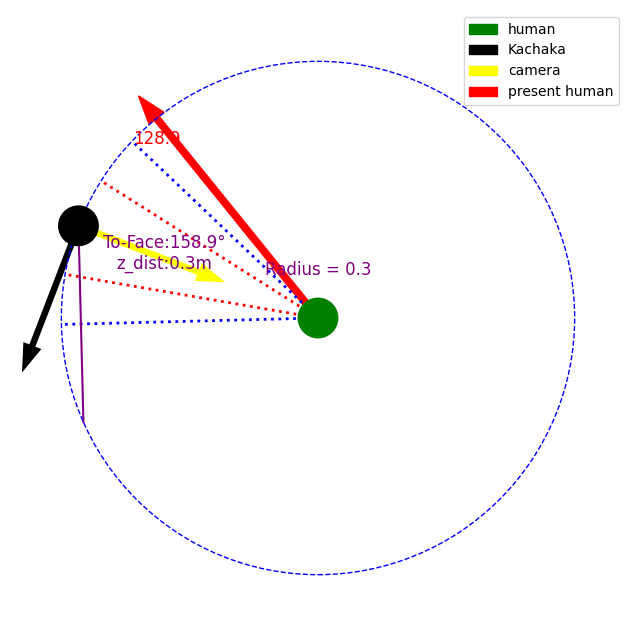
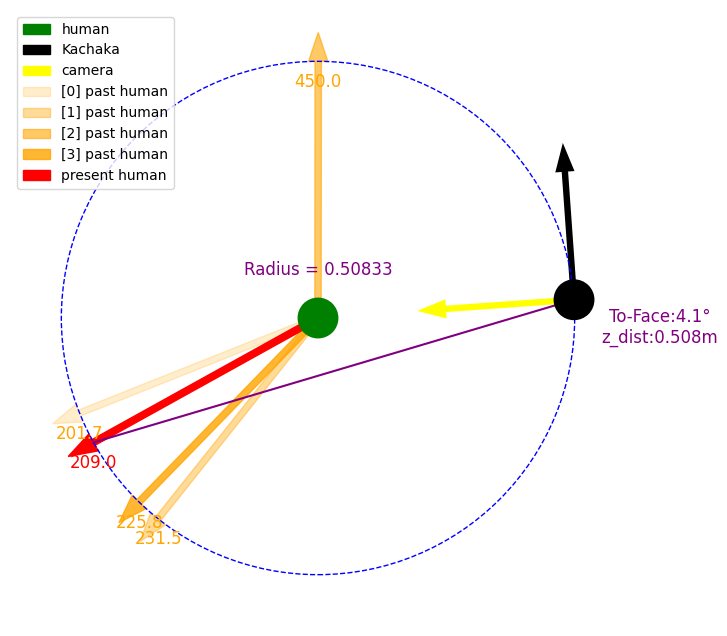
almost

diff --git a/stalk/funcs.py b/stalk/funcs.py
@@ -31,6 +31,8 @@ from functools import wraps
 
 import logging
 
+PI = math.pi
+
 FONT = cv2.FONT_HERSHEY_PLAIN
 WHITE = (255,255,255)
 RED = (0,0,255)
@@ -53,7 +55,7 @@ MAX_LINEAR_SPEED = 1
 MAX_ANGULAR_SPEED = 1
 MOVE_ANGLE_THRE = 0.03
 MOVE_EUCLIDEAN_DIST_THRE = 0.03
-STRAIGHT_FOV_THRE = math.pi/16 # rads
+STRAIGHT_FOV_THRE = PI/16 # rads
 MAX_D_STEP = 3 # meter
 
 # SCREEN_NAME = "Fullscreen"
@@ -437,7 +439,7 @@ class KachakaFrame():
                     if running_move_to_pose:
                         await self.cancel_move_to_pose()
                     self.move_try_count = 0
-                elif euclidean_dist < 0.1:
+                elif euclidean_dist < 0.15:
                     self.dest_pose = None
                     self.running_move_to_pose = False
                     if running_move_to_pose:
@@ -721,9 +723,9 @@ class KachakaFrame():
                     camera_deg = 90 # camera fixed atm
                     # get angle to turn by; angle is 0 from vertical line's bottom half and is positive clockwise
                     target_rad = np.deg2rad(target_deg) + pose_theta # angle to target's orientation
-                    kachaka_look_rad = mod_radians(pose_theta - math.pi/2)
+                    kachaka_look_rad = mod_radians(pose_theta - PI/2)
                     camera_look_rad = mod_radians(kachaka_look_rad - np.deg2rad(camera_deg)) # angle which camera is looking
-                    camera_target_diff = camera_look_rad - mod_radians(target_rad) + math.pi # angle difference between camera and target
+                    camera_target_diff = camera_look_rad - mod_radians(target_rad) + PI # angle difference between camera and target
                     # check if person is facing towards the camera
                     if m.facing_camera():
                         if abs(camera_target_diff) < STRAIGHT_FOV_THRE: # looking straight forward to person
@@ -735,14 +737,14 @@ class KachakaFrame():
                             print("facing forward", np.rad2deg(camera_target_diff))
                         else:
                             d_step = z_dist / (2 * math.cos(camera_target_diff))
-                            new_rad = mod_radians(kachaka_look_rad + (math.pi - camera_target_diff)/2)
+                            new_rad = mod_radians(kachaka_look_rad + (PI - camera_target_diff)/2)
                             dx, dy = get_coords_from_angle(new_rad, d_step)
                             new_pose = (pose_x+dx, pose_y+dy, new_rad)
                     else:
                         # TODO: step movement in a preset direction
                         # if person is facing away, simply traverse along circumference in random dir
                         d_step = z_dist / (2 * math.cos(camera_target_diff))
-                        new_rad = mod_radians(kachaka_look_rad + (math.pi - camera_target_diff)/2)
+                        new_rad = mod_radians(kachaka_look_rad + (PI - camera_target_diff)/2)
                         dx, dy = get_coords_from_angle(new_rad, d_step)
                         new_pose = (pose_x+dx, pose_y+dy, new_rad)
 
@@ -755,163 +757,90 @@ class KachakaFrame():
                     print(p)
                     await self._visualize_adjusting_to_front(z_dist, target_rad, camera_look_rad, d_step, new_pose, pose_theta, kachaka_look_rad)
 
-    async def test_circle(self):
-        if self.dest_pose is None:
-            target_rad = np.deg2rad(-30)
-            z_dist = 0.3 #meter
-            (pose_x, pose_y), pose_theta = await self.get_robot_pose() # pose_theta is in range [-pi, pi]
-            camera_rad = math.pi/2
-            kachaka_look_rad = pose_theta + math.pi/2
-            camera_look_rad = kachaka_look_rad + camera_rad
-            target_rad += pose_theta
-            # make pose coords to relative coords
-            # get human world coordinate by using BOTH camera and human orientation
-            human_x, human_y = pose_x+z_dist*math.cos(camera_look_rad), pose_y+z_dist*math.sin(camera_look_rad)
-            rel_pose_x, rel_pose_y = pose_x - human_x, pose_y - human_y
-            rel_theta = math.atan2(rel_pose_y, rel_pose_x)
-            # get theta_diff
-            d_theta = math.pi/2 + (target_rad - camera_look_rad)
-            # get new coords
-            step_theta = np.sign(d_theta)*min(math.pi/4, abs(d_theta))
-            new_theta = rel_theta + step_theta + math.pi/2
-            rel_new_x, rel_new_y = get_coords_from_angle(new_theta, z_dist)
-            # print((rel_pose_x, rel_pose_y), (rel_new_x, rel_new_y))
-            new_x, new_y = human_x - rel_new_x, human_y - rel_new_y
-            # print((pose_x, pose_y), (new_x, new_y))
-            # self.dest_pose = (pose_x, pose_y, new_theta)
-            self.dest_pose = (new_x, new_y, kachaka_look_rad + step_theta)
-
-            # visualize
-            fig,ax = plt.subplots(figsize=(12,8))
-            center = (0,0)
-            kachaka = (rel_pose_x, rel_pose_y)
-            arrow_sca = 40
-            ax.add_artist(plt.Circle(center, z_dist/13, color="green", zorder=5, label="human")) # circle center
-            ax.add_artist(plt.Circle(center, z_dist, color="blue", fill=False, linestyle="dashed", zorder=5)) # circumference
-            ax.add_artist(plt.Circle(kachaka, z_dist/13, color="black", zorder=5)) #kachaka obj
-            # kachaka pov
-            ax.arrow(*kachaka, *get_coords_from_angle(kachaka_look_rad, z_dist/2), width=z_dist/arrow_sca, shape="full", color="black", linestyle="", label="Kachaka")
-            # camera pov
-            ax.arrow(*kachaka, *get_coords_from_angle(camera_look_rad, z_dist/2), width=z_dist/arrow_sca, shape="full", color="yellow", linestyle="", label="camera")
-            # past target lines
-            self.visualize_prev_locations.append(target_rad)
-            if len(self.visualize_prev_locations) > 5:
-                self.visualize_prev_locations.pop(0)
-            for i,n in enumerate(self.visualize_prev_locations):
-                x,y,dx,dy = (*center, *get_coords_from_angle(n, z_dist))
-                if i == len(self.visualize_prev_locations)-1:
-                    # most recent line to be draw with different colour and full alpha
-                    ax.arrow(x, y, dx, dy, color="red", linestyle="solid", lw=1, width=z_dist/arrow_sca, shape="full", label="present human")
-                    ax.text(x+dx, y+dy-z_dist/10, f"{round(np.rad2deg(n),1)}", fontsize=12, ha='center', color='red', zorder=5)
-                else:
-                    ax.arrow(x, y, dx, dy, color="orange", linestyle="solid", lw=1, alpha=(255/5 * (i+1))/255, width=z_dist/arrow_sca, label=f"[{i}] past human")
-                    ax.text(x+dx, y+dy-z_dist/10, f"{round(np.rad2deg(n),1)}", fontsize=12, ha='center', color='orange', zorder=5)
-            # draw boundary for swapping turn angle calculations
-            x,y = center
-            for c,j in [["red",1],["blue",2]]:
-                for i in (-1,1):
-                    dx,dy = get_coords_from_angle(i*j*(STRAIGHT_FOV_THRE)+pose_theta, z_dist)
-                    ax.plot((x,x+dx), (y,y+dy), color=c, linestyle="dotted", lw=2)
-            # kachaka destination annotations
-            ax.plot((kachaka[0], rel_new_x), (kachaka[1], rel_new_y), color="purple")
-            # ax.arrow(*kachaka, *get_coords_from_angle(step_theta, z_dist), color="purple", linestyle="solid", lw=1, width=z_dist/arrow_sca, shape="full", label="destination", alpha=.5)
-            ax.text(kachaka[0]+z_dist/3, kachaka[1]-z_dist/6, f"To-Face:{round(np.rad2deg(pose_theta),1)}°\nz_dist:{round(z_dist,3)}m", fontsize=12, ha='center', color='purple')
-            # draw some info text on center
-            ax.text(0, z_dist/6, f'Radius = {round(z_dist,5)}', fontsize=12, ha='center', color='purple')
-            c = 1.2
-            ax.set_xlim(-z_dist*c, z_dist*c)
-            ax.set_ylim(-z_dist*c, z_dist*c)
-            ax.set_aspect("equal")
-            ax.axis("off")
-            ax.legend()
-            fig.savefig("stalk/visualize.png", bbox_inches="tight")
-            # save frame by frame
-            fig.savefig(f"stalk/img/graph_{str(self.graph_i).zfill(3)}.png")
-            plt.close(fig)
-            self.graph_i += 1
-
     async def circle(self):
         m = self.mp_landmark_model
         img_h, img_w, _ = self.color_image.shape
         if self.target_found and m.landmarks is not None and self.dest_pose is None:
-            target_rad = np.deg2rad(self._find_deg_from_landmarks())
+            target_rad = 2*PI-np.deg2rad(self._find_deg_from_landmarks())
+            # target_rad = -PI
             l = [MPLandmark.NOSE, MPLandmark.LEFT_SHOULDER, MPLandmark.RIGHT_SHOULDER]
             l = [m._convert_to_ndarray(i) for i in l]
             l = [self.realsense.get_depth_at_pixel(int(img_w*x), int(img_h*y), self.depth_image, self.color_image) for x,y,_ in l]
             l = filter_outliers_IQR(np.array([n for n in l if n is not None],dtype=float))
             if len(l) == 3: # continue only if valid depths can be retrieved
                 z_dist = np.average(l) # distance in meter
-                logging.debug(f"[{self.id}]KachakaFrame.circle(). z_dist:{z_dist}, l:{len(l)}/33")
-                (pose_x, pose_y), pose_theta = await self.get_robot_pose() # pose_theta is in range [-pi, pi]
-                camera_rad = math.pi/2
-                kachaka_look_rad = pose_theta + math.pi/2
-                camera_look_rad = kachaka_look_rad + camera_rad
-                target_rad += pose_theta - math.pi/2
-                # make pose coords to relative coords
-                # get human world coordinate by using BOTH camera and human orientation
-                human_x, human_y = pose_x+z_dist*math.cos(camera_look_rad), pose_y+z_dist*math.sin(camera_look_rad)
-                rel_pose_x, rel_pose_y = pose_x - human_x, pose_y - human_y
-                rel_theta = math.atan2(rel_pose_y, rel_pose_x)
-                # get theta_diff
-                d_theta = math.pi + (target_rad - camera_look_rad)
-                # get new coords
-                step_theta = np.sign(d_theta)*min(math.pi/4, abs(d_theta))
-                new_theta = rel_theta + step_theta
-                rel_new_x, rel_new_y = get_coords_from_angle(new_theta, z_dist)
-                # print((rel_pose_x, rel_pose_y), (rel_new_x, rel_new_y))
-                new_x, new_y = rel_new_x + human_x, rel_new_y + human_y
-                # print((pose_x, pose_y), (new_x, new_y))
-                # self.dest_pose = (pose_x, pose_y, new_theta)
-                self.dest_pose = (new_x, new_y, pose_theta + step_theta)
+                if z_dist < 2: # anything larger is too far
+                    logging.debug(f"[{self.id}]KachakaFrame.circle(). z_dist:{z_dist}")
+                    (pose_x, pose_y), pose_theta = await self.get_robot_pose() # pose_theta is in range [-pi, pi]
+                    pose = np.array([pose_x, pose_y])
+                    camera_rad = PI/2 # kachaka to camera yaw offset
+                    kachaka_look_rad = pose_theta + PI/2 # angle kachaka is looking
+                    camera_look_rad = kachaka_look_rad + camera_rad # direction of camera
+                    target_rad = target_rad + pose_theta # target angle
+                    # get human world coordinate by using BOTH camera and human orientation
+                    human = pose + get_coords_from_angle(camera_look_rad, z_dist)
+                    # get relative coords
+                    rel_pose = pose - human
+                    # get theta_diff
+                    d_theta = (target_rad - camera_look_rad + np.pi) % (2 * np.pi) - np.pi
+                    print("pose",pose_theta, "target",target_rad, "camera",camera_look_rad, "d_theta",d_theta)
+                    # get new coords
+                    step_theta = np.sign(d_theta)*min(PI/4, abs(d_theta))
+                    new_theta = camera_look_rad + step_theta
+                    print("new_theta",new_theta)
+                    rel_new = get_coords_from_angle(new_theta, z_dist)
+                    new = human + rel_new
+                    # print((pose_x, pose_y), (new_x, new_y))
+                    # self.dest_pose = (*new, normalize_radians(new_theta + camera_rad))
 
-                # visualize
-                fig,ax = plt.subplots(figsize=(12,8))
-                center = (0,0)
-                kachaka = (rel_pose_x, rel_pose_y)
-                arrow_sca = 40
-                ax.add_artist(plt.Circle(center, z_dist/13, color="green", zorder=5, label="human")) # circle center
-                ax.add_artist(plt.Circle(center, z_dist, color="blue", fill=False, linestyle="dashed", zorder=5)) # circumference
-                ax.add_artist(plt.Circle(kachaka, z_dist/13, color="black", zorder=5)) #kachaka obj
-                # kachaka pov
-                ax.arrow(*kachaka, *get_coords_from_angle(kachaka_look_rad, z_dist/2), width=z_dist/arrow_sca, shape="full", color="black", linestyle="", label="Kachaka")
-                # camera pov
-                ax.arrow(*kachaka, *get_coords_from_angle(camera_look_rad, z_dist/2), width=z_dist/arrow_sca, shape="full", color="yellow", linestyle="", label="camera")
-                # past target lines
-                self.visualize_prev_locations.append(target_rad)
-                if len(self.visualize_prev_locations) > 5:
-                    self.visualize_prev_locations.pop(0)
-                for i,n in enumerate(self.visualize_prev_locations):
-                    x,y,dx,dy = (*center, *get_coords_from_angle(n, z_dist))
-                    if i == len(self.visualize_prev_locations)-1:
-                        # most recent line to be draw with different colour and full alpha
-                        ax.arrow(x, y, dx, dy, color="red", linestyle="solid", lw=1, width=z_dist/arrow_sca, shape="full", label="present human")
-                        ax.text(x+dx, y+dy-z_dist/10, f"{round(np.rad2deg(n),1)}", fontsize=12, ha='center', color='red', zorder=5)
-                    else:
-                        ax.arrow(x, y, dx, dy, color="orange", linestyle="solid", lw=1, alpha=(255/5 * (i+1))/255, width=z_dist/arrow_sca, label=f"[{i}] past human")
-                        ax.text(x+dx, y+dy-z_dist/10, f"{round(np.rad2deg(n),1)}", fontsize=12, ha='center', color='orange', zorder=5)
-                # draw boundary for swapping turn angle calculations
-                x,y = center
-                for c,j in [["red",1],["blue",2]]:
-                    for i in (-1,1):
-                        dx,dy = get_coords_from_angle(i*j*(STRAIGHT_FOV_THRE)+pose_theta, z_dist)
-                        ax.plot((x,x+dx), (y,y+dy), color=c, linestyle="dotted", lw=2)
-                # kachaka destination annotations
-                ax.plot((kachaka[0], rel_new_x), (kachaka[1], rel_new_y), color="purple")
-                # ax.arrow(*kachaka, *get_coords_from_angle(step_theta, z_dist), color="purple", linestyle="solid", lw=1, width=z_dist/arrow_sca, shape="full", label="destination", alpha=.5)
-                ax.text(kachaka[0]+z_dist/3, kachaka[1]-z_dist/6, f"To-Face:{round(np.rad2deg(pose_theta),1)}°\nz_dist:{round(z_dist,3)}m", fontsize=12, ha='center', color='purple')
-                # draw some info text on center
-                ax.text(0, z_dist/6, f'Radius = {round(z_dist,5)}', fontsize=12, ha='center', color='purple')
-                c = 1.2
-                ax.set_xlim(-z_dist*c, z_dist*c)
-                ax.set_ylim(-z_dist*c, z_dist*c)
-                ax.set_aspect("equal")
-                ax.axis("off")
-                ax.legend()
-                fig.savefig("stalk/visualize.png", bbox_inches="tight")
-                # save frame by frame
-                fig.savefig(f"stalk/img/graph_{str(self.graph_i).zfill(3)}.png")
-                plt.close(fig)
-                self.graph_i += 1
+                    # visualize
+                    fig,ax = plt.subplots(figsize=(12,8))
+                    center = (0,0)
+                    kachaka = rel_pose
+                    arrow_sca = 40
+                    ax.add_artist(plt.Circle(center, z_dist/13, color="green", zorder=5, label="human")) # circle center
+                    ax.add_artist(plt.Circle(center, z_dist, color="blue", fill=False, linestyle="dashed", zorder=5)) # circumference
+                    ax.add_artist(plt.Circle(kachaka, z_dist/13, color="black", zorder=5)) #kachaka obj
+                    # kachaka pov
+                    ax.arrow(*kachaka, *get_coords_from_angle(kachaka_look_rad, z_dist/2), width=z_dist/arrow_sca, shape="full", color="black", linestyle="", label="Kachaka")
+                    # camera pov
+                    ax.arrow(*kachaka, *get_coords_from_angle(camera_look_rad, z_dist/2), width=z_dist/arrow_sca, shape="full", color="yellow", linestyle="", label="camera")
+                    # past target lines
+                    self.visualize_prev_locations.append(target_rad)
+                    if len(self.visualize_prev_locations) > 5:
+                        self.visualize_prev_locations.pop(0)
+                    for i,n in enumerate(self.visualize_prev_locations):
+                        x,y,dx,dy = (*center, *get_coords_from_angle(n, z_dist))
+                        if i == len(self.visualize_prev_locations)-1:
+                            # most recent line to be draw with different colour and full alpha
+                            ax.arrow(x, y, dx, dy, color="red", linestyle="solid", lw=1, width=z_dist/arrow_sca, shape="full", label="present human")
+                            ax.text(x+dx, y+dy-z_dist/10, f"{round(np.rad2deg(n),1)}", fontsize=12, ha='center', color='red', zorder=5)
+                        else:
+                            ax.arrow(x, y, dx, dy, color="orange", linestyle="solid", lw=1, alpha=(255/5 * (i+1))/255, width=z_dist/arrow_sca, label=f"[{i}] past human")
+                            ax.text(x+dx, y+dy-z_dist/10, f"{round(np.rad2deg(n),1)}", fontsize=12, ha='center', color='orange', zorder=5)
+                    # draw boundary for swapping turn angle calculations
+                    # x,y = center
+                    # for c,j in [["red",1],["blue",2]]:
+                    #     for i in (-1,1):
+                    #         dx,dy = get_coords_from_angle(i*j*(STRAIGHT_FOV_THRE)+pose_theta-PI/2, z_dist)
+                    #         ax.plot((x,x+dx), (y,y+dy), color=c, linestyle="dotted", lw=2)
+                    # kachaka destination annotations
+                    ax.plot((kachaka[0], rel_new[0]), (kachaka[1], rel_new[1]), color="purple")
+                    # ax.arrow(*kachaka, *get_coords_from_angle(step_theta, z_dist), color="purple", linestyle="solid", lw=1, width=z_dist/arrow_sca, shape="full", label="destination", alpha=.5)
+                    ax.text(kachaka[0]+z_dist/3, kachaka[1]-z_dist/6, f"To-Face:{round(np.rad2deg(pose_theta),1)}°\nz_dist:{round(z_dist,3)}m", fontsize=12, ha='center', color='purple')
+                    # draw some info text on center
+                    ax.text(0, z_dist/6, f'Radius = {round(z_dist,5)}', fontsize=12, ha='center', color='purple')
+                    c = 1.2
+                    ax.set_xlim(-z_dist*c, z_dist*c)
+                    ax.set_ylim(-z_dist*c, z_dist*c)
+                    ax.set_aspect("equal")
+                    ax.axis("off")
+                    ax.legend()
+                    fig.savefig("stalk/visualize.png", bbox_inches="tight")
+                    # save frame by frame
+                    fig.savefig(f"stalk/img/graph_{str(self.graph_i).zfill(3)}.png")
+                    plt.close(fig)
+                    self.graph_i += 1
 
     async def _visualize_adjusting_to_front(self, z_dist, target_rads, camera_look_rad, step_distance, new_pose, kachaka_theta, kachaka_look_rad): # assumes camera is facing towards target
         fig,ax = plt.subplots(figsize=(12,8))
@@ -927,7 +856,7 @@ class KachakaFrame():
         # camera pov
         camera_arrow = ax.arrow(*kachaka, *get_coords_from_angle(camera_look_rad, z_dist/2), width=z_dist/arrow_sca, shape="full", color="yellow", linestyle="", label="camera")
         # past target lines
-        self.visualize_prev_locations.append(target_rads)
+        self.visualize_prev_locations.append(normalize_radians(target_rads))
         if len(self.visualize_prev_locations) > 5:
             self.visualize_prev_locations.pop(0)
         for i,n in enumerate(self.visualize_prev_locations):
@@ -948,11 +877,11 @@ class KachakaFrame():
         # kachaka destination annotations
         if new_pose is not None:
             pose_x, pose_y, pose_theta = new_pose
-            if target_rads+math.pi/2 < 0:
-                dx, dy = get_coords_from_angle(pose_theta-math.pi/2, step_distance)
+            if target_rads+PI/2 < 0:
+                dx, dy = get_coords_from_angle(pose_theta-PI/2, step_distance)
                 destination_arrow = ax.arrow(*kachaka, dx, dy, color="purple", linestyle="solid", lw=1, width=z_dist/arrow_sca, shape="full", label="destination", alpha=.5)
             else:
-                dx, dy = get_coords_from_angle(pose_theta+math.pi/2, -step_distance)
+                dx, dy = get_coords_from_angle(pose_theta+PI/2, -step_distance)
                 destination_arrow = ax.arrow(*kachaka, dx, dy, color="purple", linestyle="solid", lw=1, width=z_dist/arrow_sca, shape="full", label="destination", alpha=.5)
             ax.add_artist(plt.Circle((kachaka[0]+dx, kachaka[1]+dy), z_dist/15, color="purple", label="newPose"))
             ax.text(kachaka[0]+z_dist/3, kachaka[1]-z_dist/6, f"To-Face:{round(np.rad2deg(pose_theta),1)}°\nz_dist:{round(z_dist,3)}m", fontsize=12, ha='center', color='purple')
@@ -1371,13 +1300,24 @@ async def anext(iterator, default=None):
 
 def mod_radians(r:float):
     # normalize to range[-2pi, 2pi]
-    return (r + 2*math.pi) % (4*math.pi) - 2*math.pi
+    return (r + 2*PI) % (4*PI) - 2*PI
+
+def normalize_radians(r:float):
+    # normalize radians to prevent jumps
+    return np.arctan2(np.sin(r), np.cos(r))
+
+def radian_subtract(a:float, b:float):
+    # difference in radians between a and b, maintaining continuity
+    delta = (b - a) % 360
+    if delta > 180:
+        delta -= 360
+    return delta
 
 def get_coords_from_angle(theta:float, r:float = 1) -> tuple[float, float]:
     """given hypotenuse and angle, return (x,y) components
     """
-    # theta = theta % (2*math.pi)
-    return (r*math.cos(theta), r*math.sin(theta))
+    # theta = theta % (2*PI)
+    return np.array((r*math.cos(theta), r*math.sin(theta)))
 
 def filter_outliers_z_score(data: np.ndarray, threshold: float = 3.0) -> np.ndarray:
     z_scores = np.abs(stats.zscore(data))

diff --git a/stalk/be_in_front.py b/stalk/be_in_front.py
@@ -7,7 +7,7 @@ warnings.filterwarnings("ignore")
 from funcs import *
 
 KACHAKA_IPS = {
-    0:"192.168.118.165:26400",
+    0:"192.168.118.168:26400",
     # 1:"192.168.118.166:26400",
     # 2:"192.168.118.160:26400"
     }
